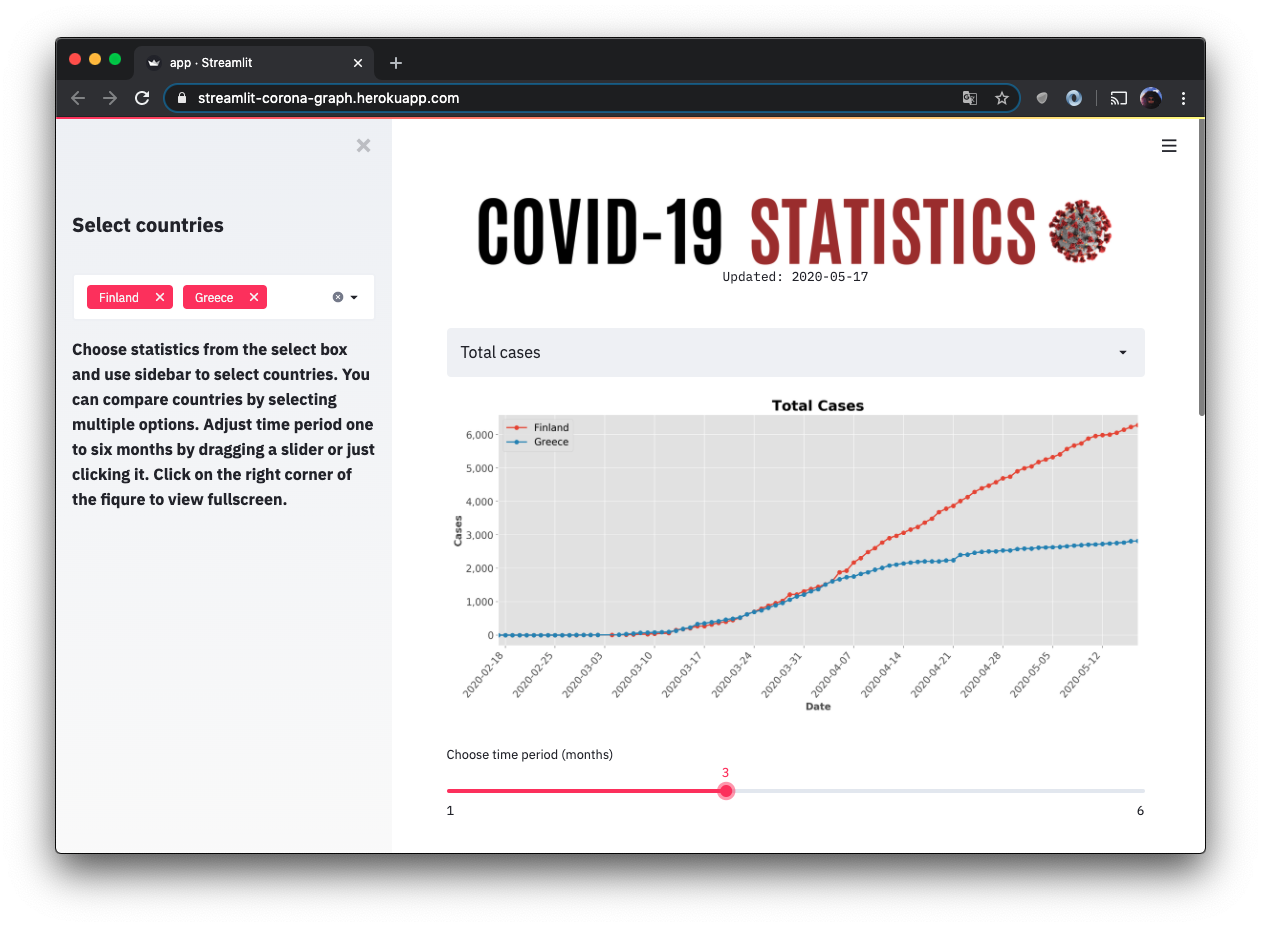
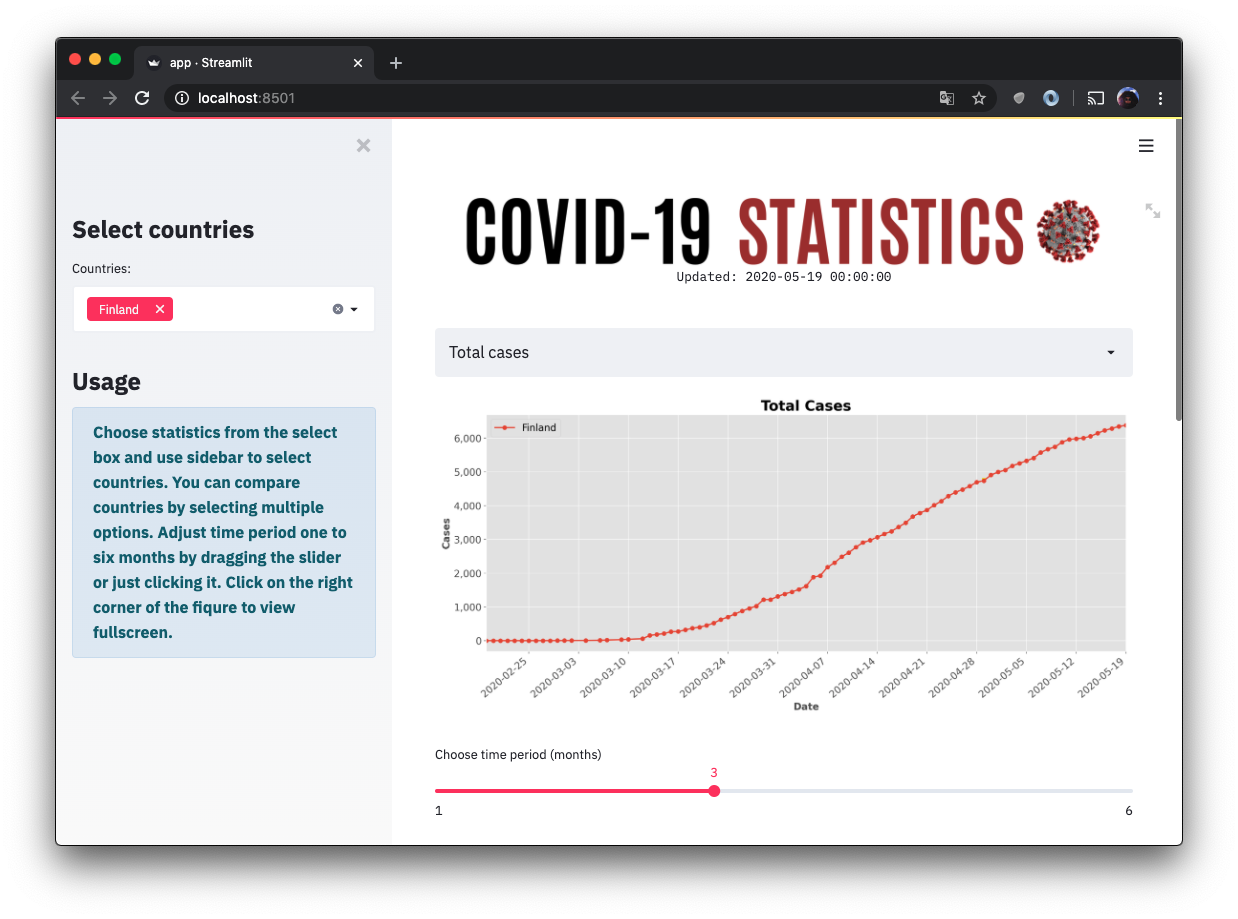
adding info box to sidebar and header

diff --git a/Functions/graph_functions.py b/Functions/graph_functions.py
@@ -81,8 +81,8 @@ def compare_countries(df):
     ylabel = chart.split(sep='_')[-1]
     new_graph = Graph(chart.replace('_', ' ').title(), ylabel, 'date', (15,7))
     new_graph.set_info()
-    st.sidebar.markdown("## Select countries")
-    options = st.sidebar.multiselect('', list(countries), default=['Finland'])
+    st.sidebar.markdown("# Select countries")
+    options = st.sidebar.multiselect('Countries:', list(countries), default=['Finland'])
     for new_country in options:
         new_df = get_location_values(df, new_country, startdate)
         if chart == 'new_cases' or chart == 'new_deaths':

diff --git a/app.py b/app.py
@@ -39,7 +39,8 @@ def main():
 
     compare_countries(df)
 
-    st.sidebar.markdown("**Choose statistics from the select box and use sidebar to select countries. \
+    st.sidebar.markdown("# Usage")
+    st.sidebar.info("**Choose statistics from the select box and use sidebar to select countries. \
     You can compare countries by selecting multiple options. \
     Adjust time period one to six months by dragging the slider or just clicking it. \
     Click on the right corner of the fiqure to view fullscreen.**")

diff --git a/Classes/classes.py b/Classes/classes.py
@@ -43,7 +43,7 @@ class Graph:
 
     def ajust_graph(self):
         formatter = FuncFormatter(format_numbers)
-        plt.xticks(fontsize=15, rotation=50, ha="right")
+        plt.xticks(fontsize=15, rotation=40, ha="right")
         plt.yticks(fontsize=15)
         self.ax.yaxis.set_major_formatter(formatter)
         self.ax.xaxis.set_major_locator(mdates.WeekdayLocator())

diff --git a/Functions/option_functions.py b/Functions/option_functions.py
@@ -22,6 +22,6 @@ def choose_time_period(youngest):
         return: startdate (youngest - time period)
         returntype: datetime object
     '''
-    period = st.slider('Choose time period (months)', 1, 6, 1)
+    period = st.slider('Choose time period (months)', 1, 6, 3)
     startdate = youngest - pd.DateOffset(months=period)
     return startdate
